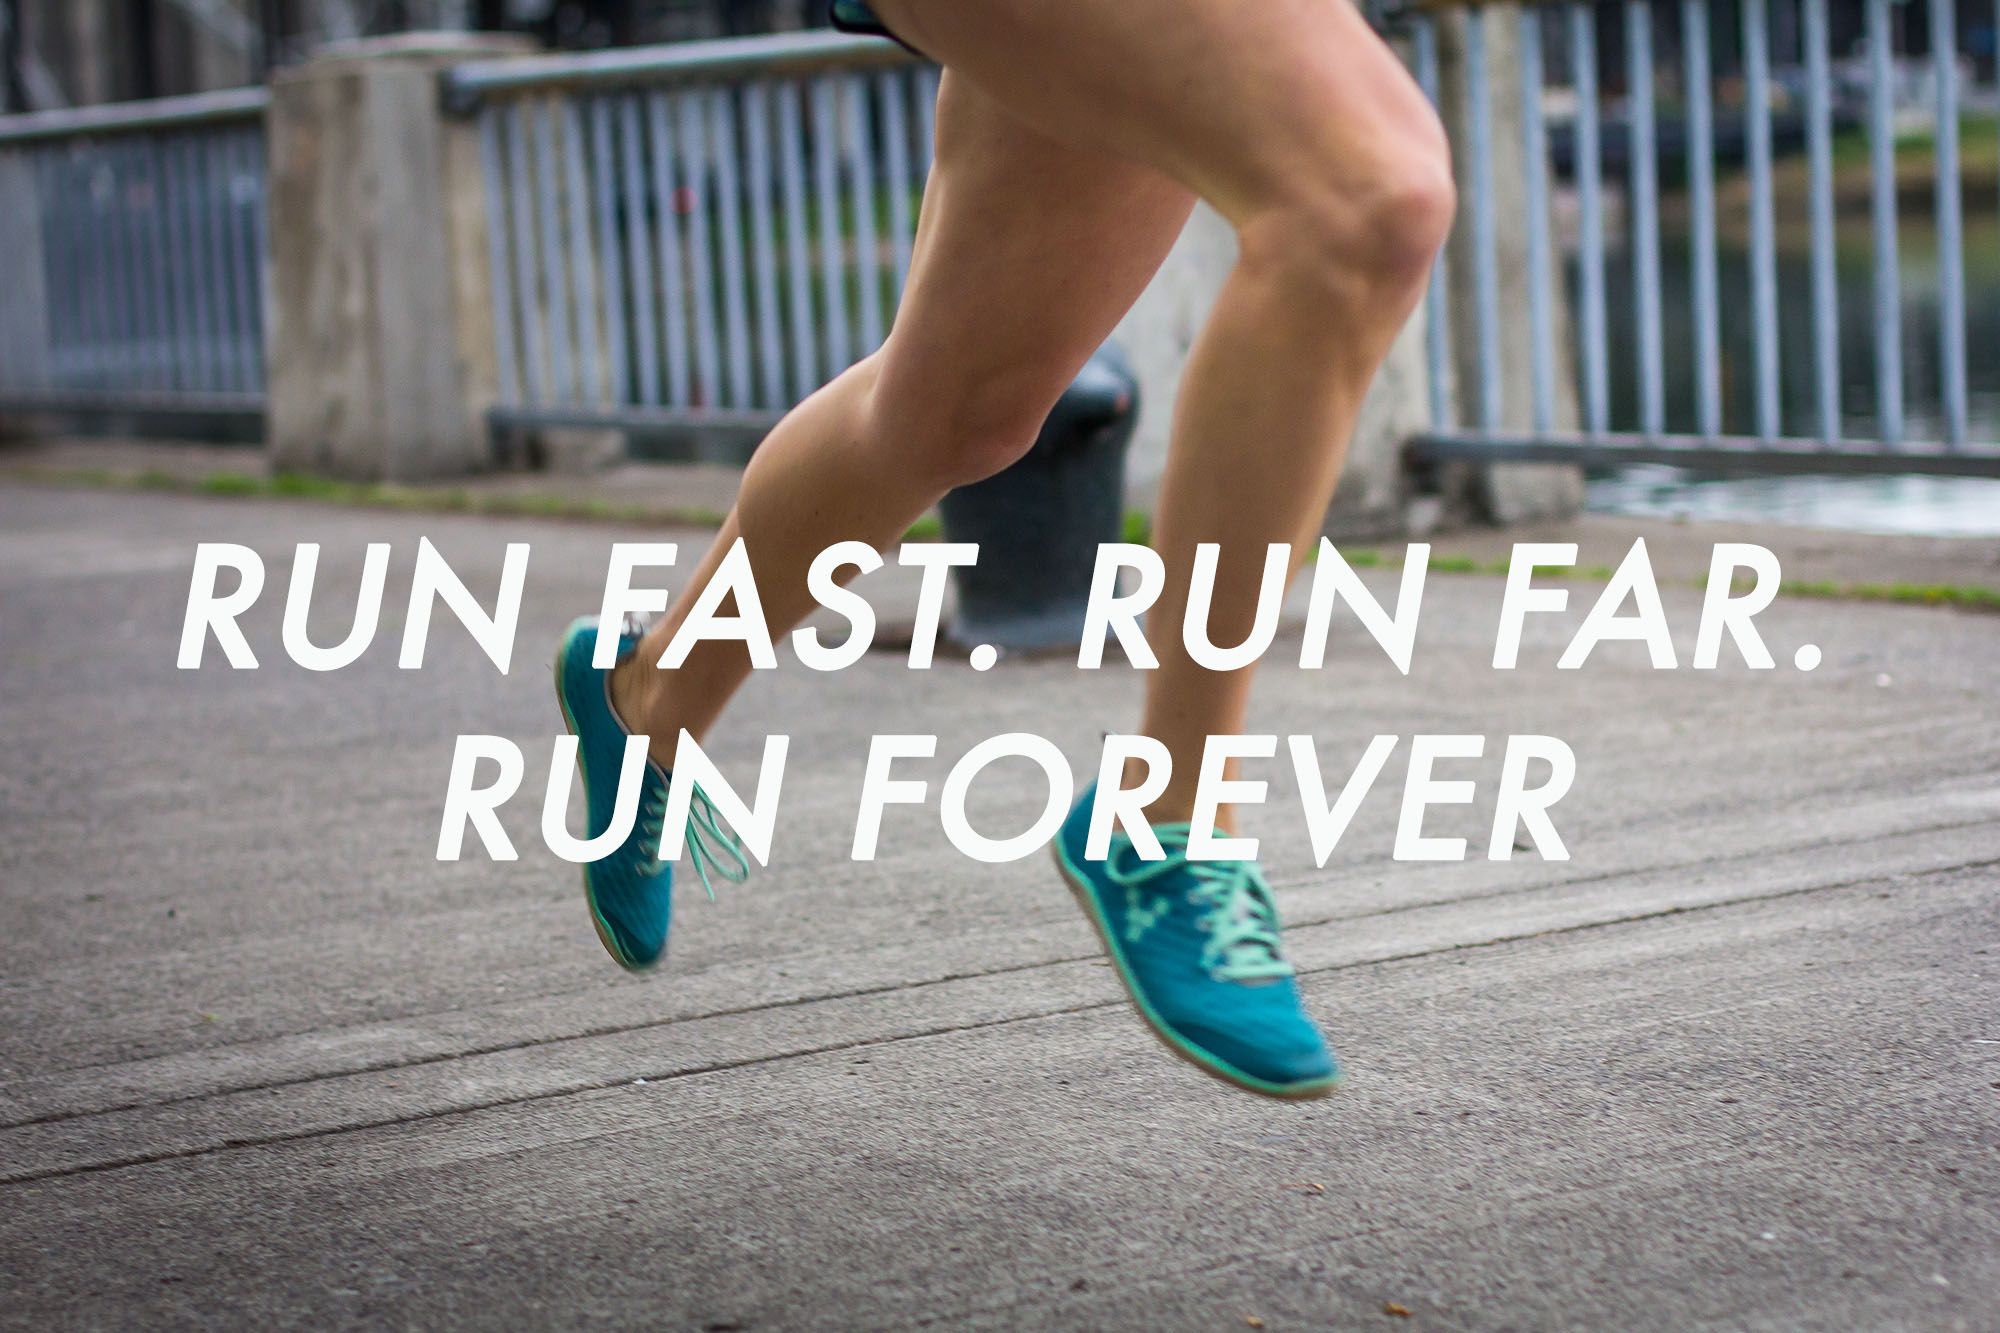
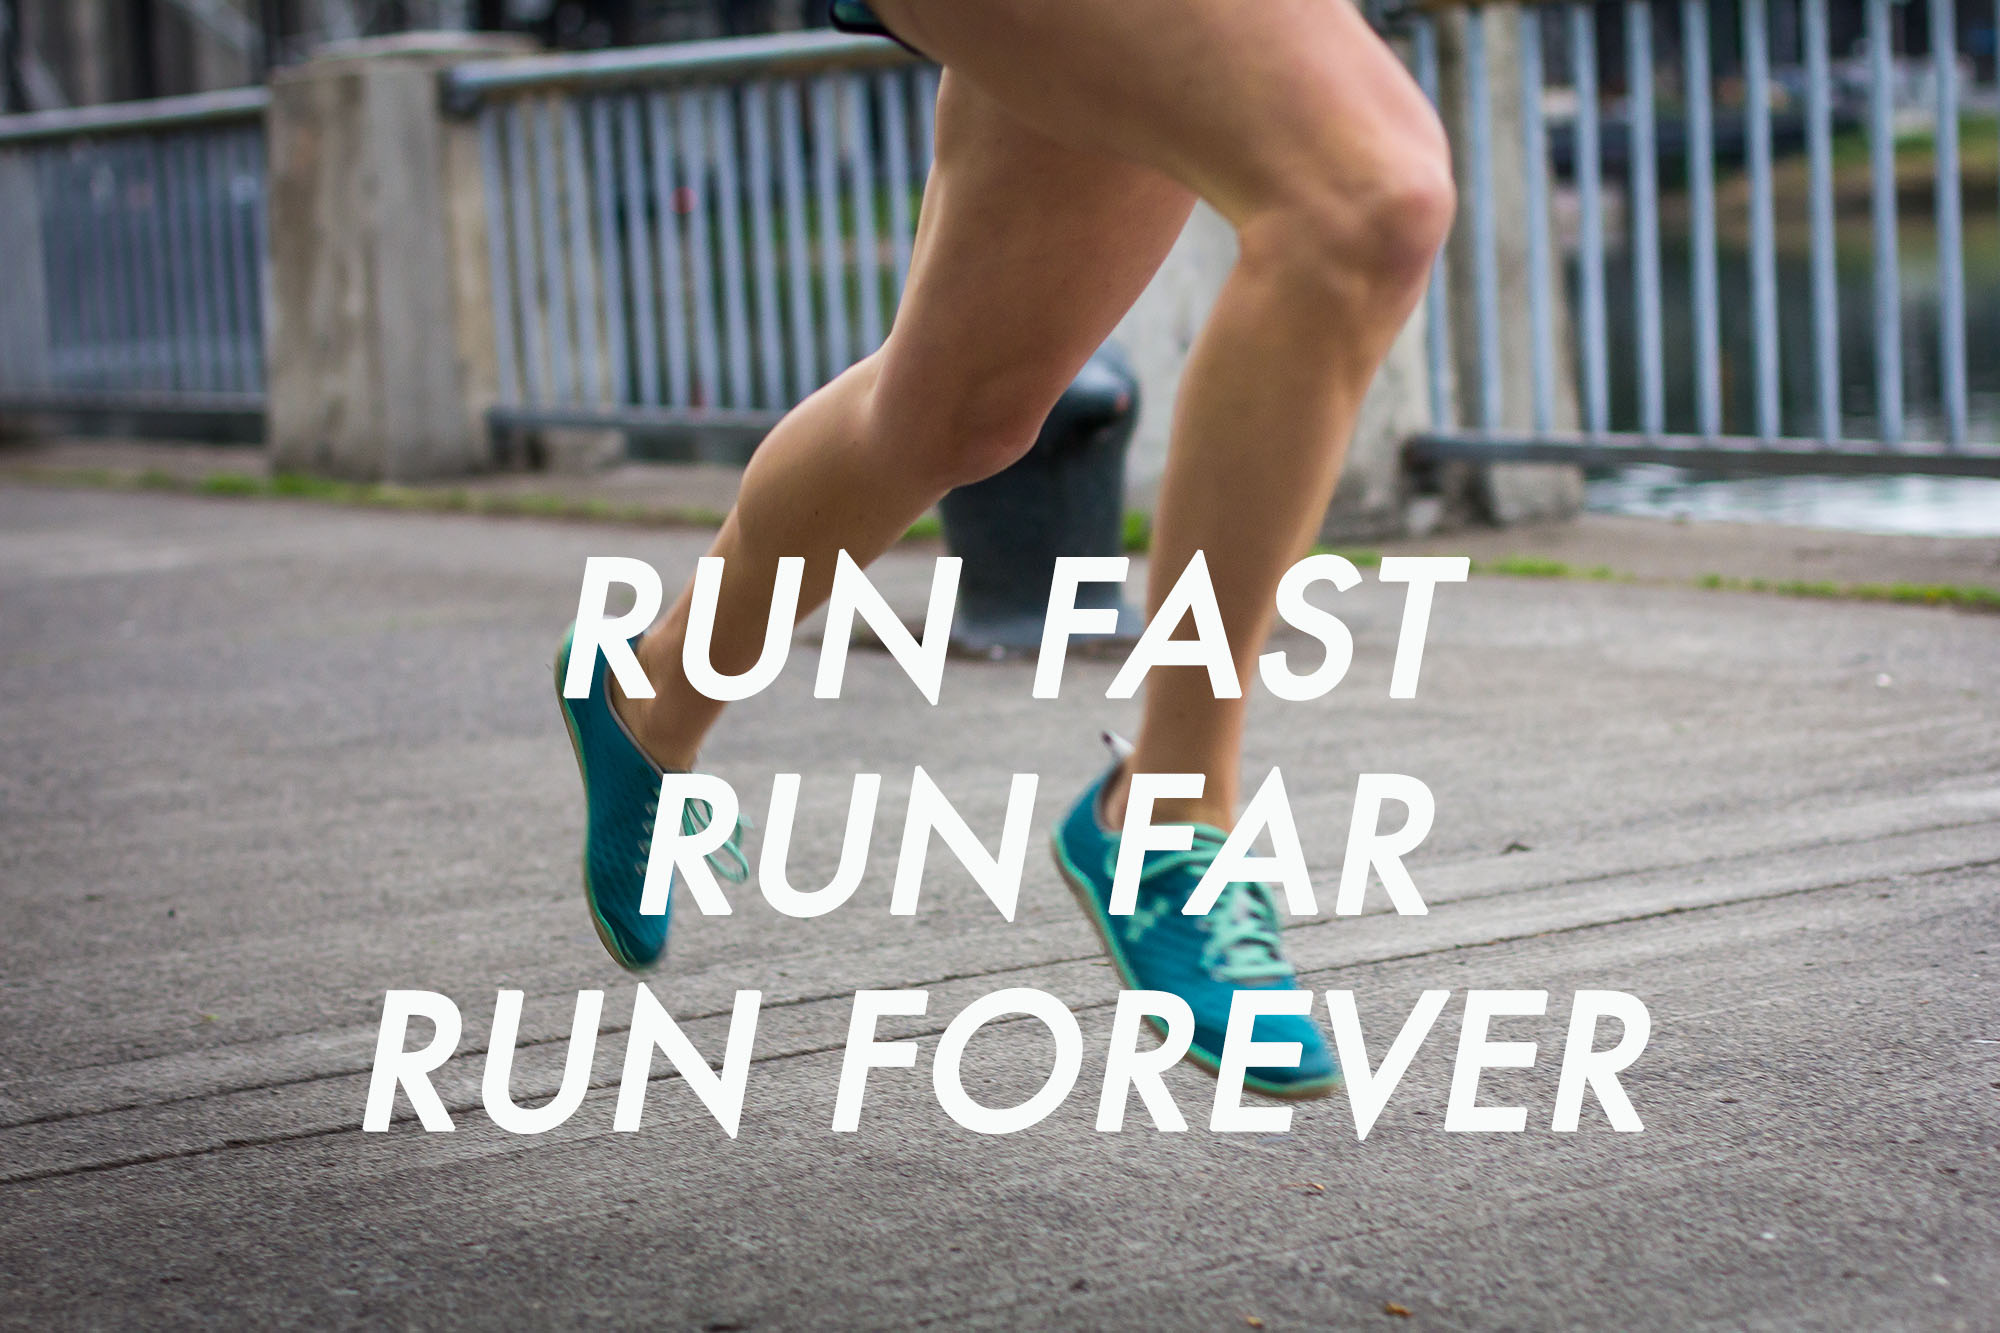
mods to header

Changed region(s): [[0.093, 0.3998, 0.93, 0.5229], [0.217, 0.5536, 0.806, 0.7074], [0.186, 0.7382, 0.837, 0.8612]]

diff --git a/index.html b/index.html
@@ -237,9 +237,16 @@
                 </section>
 
          <section class="visible-xs">
+<!--     			<div class="clearfix">
+					<div class="camera_wrap camera_magenta_skin camera-slider margin-bottom-0">
+			            <div data-thumb="assets/images/run-fast-first-slide-mobile.jpg" data-src="assets/images/run-fast-first-slide-mobile.jpg">
+			            </div>
+			        </div>
+				</div> -->
+
     			<div class="clearfix">
 						<div class="margin-bottom-0">
-			            <div> <img src="assets/images/run-fast-first-slide-mobile.jpg">
+			            <div> <img src="assets/images/run-fast-first-slide-mobile.jpg" >
 			            </div>
 			      </div>
 				</div>
@@ -254,7 +261,7 @@
 					<div class="container clearfix">
 						<div class="row">
 						<div class="col-sm-12 text-center" style="font-size: 14px">
-						<p>Portland's Premier Board Certified Orthopedic Physical Therapist and Running Specialist</p>
+<!-- 						<p>Portland's Premier Board Certified Orthopedic Physical Therapist and Running Specialist</p> -->
 						</div>
 
 							<div class="col-sm-6 phone-numbers phone-numbers-desktop">
